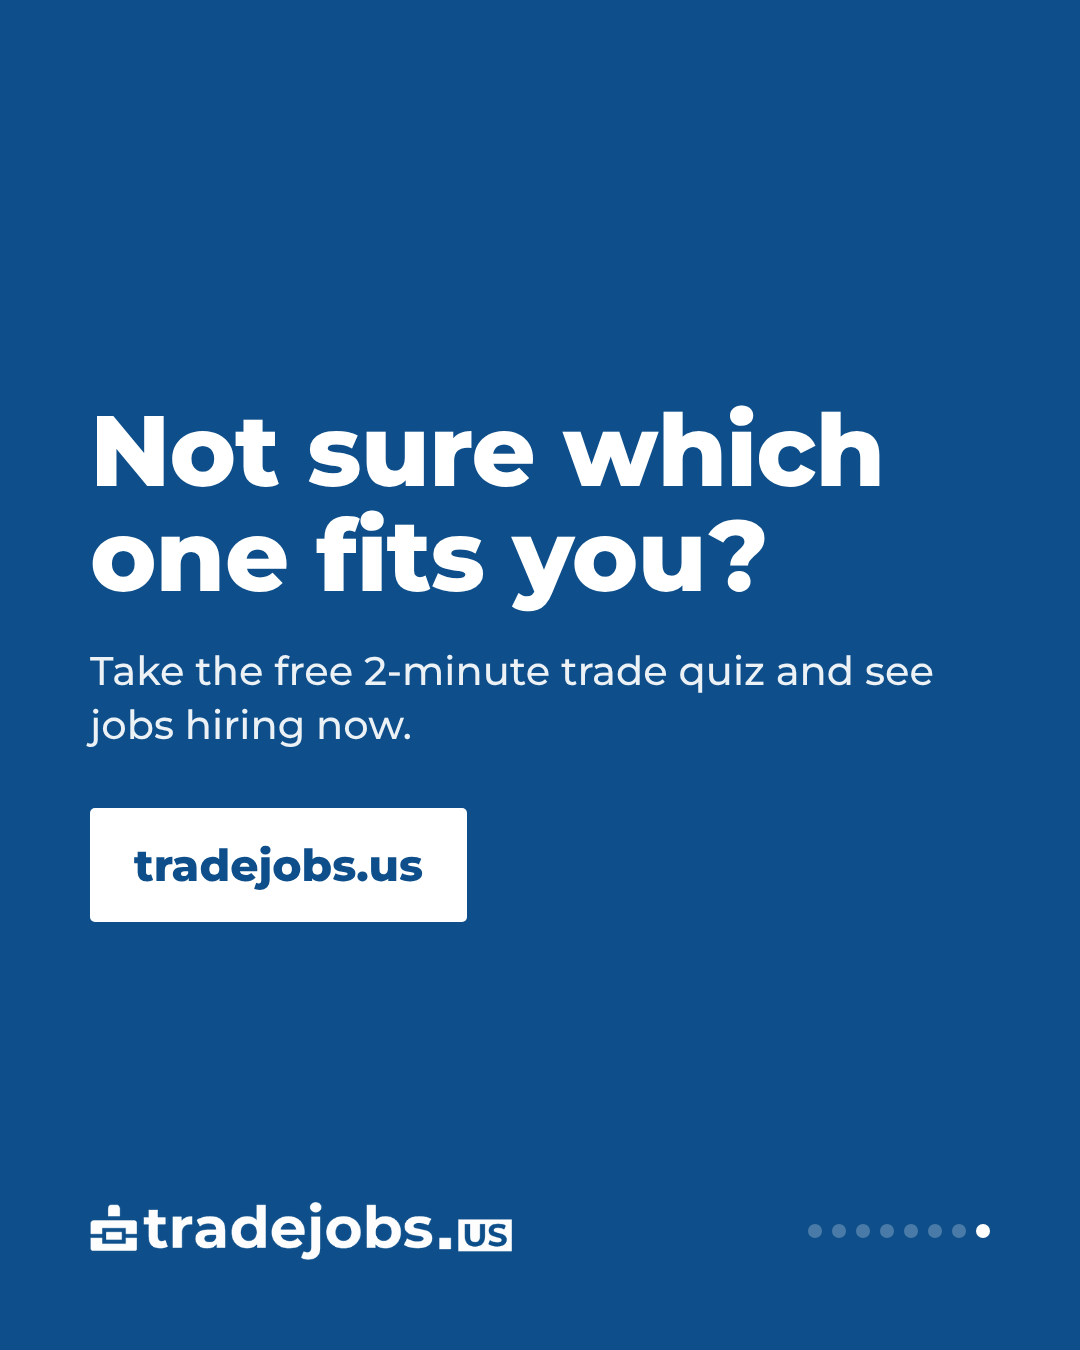
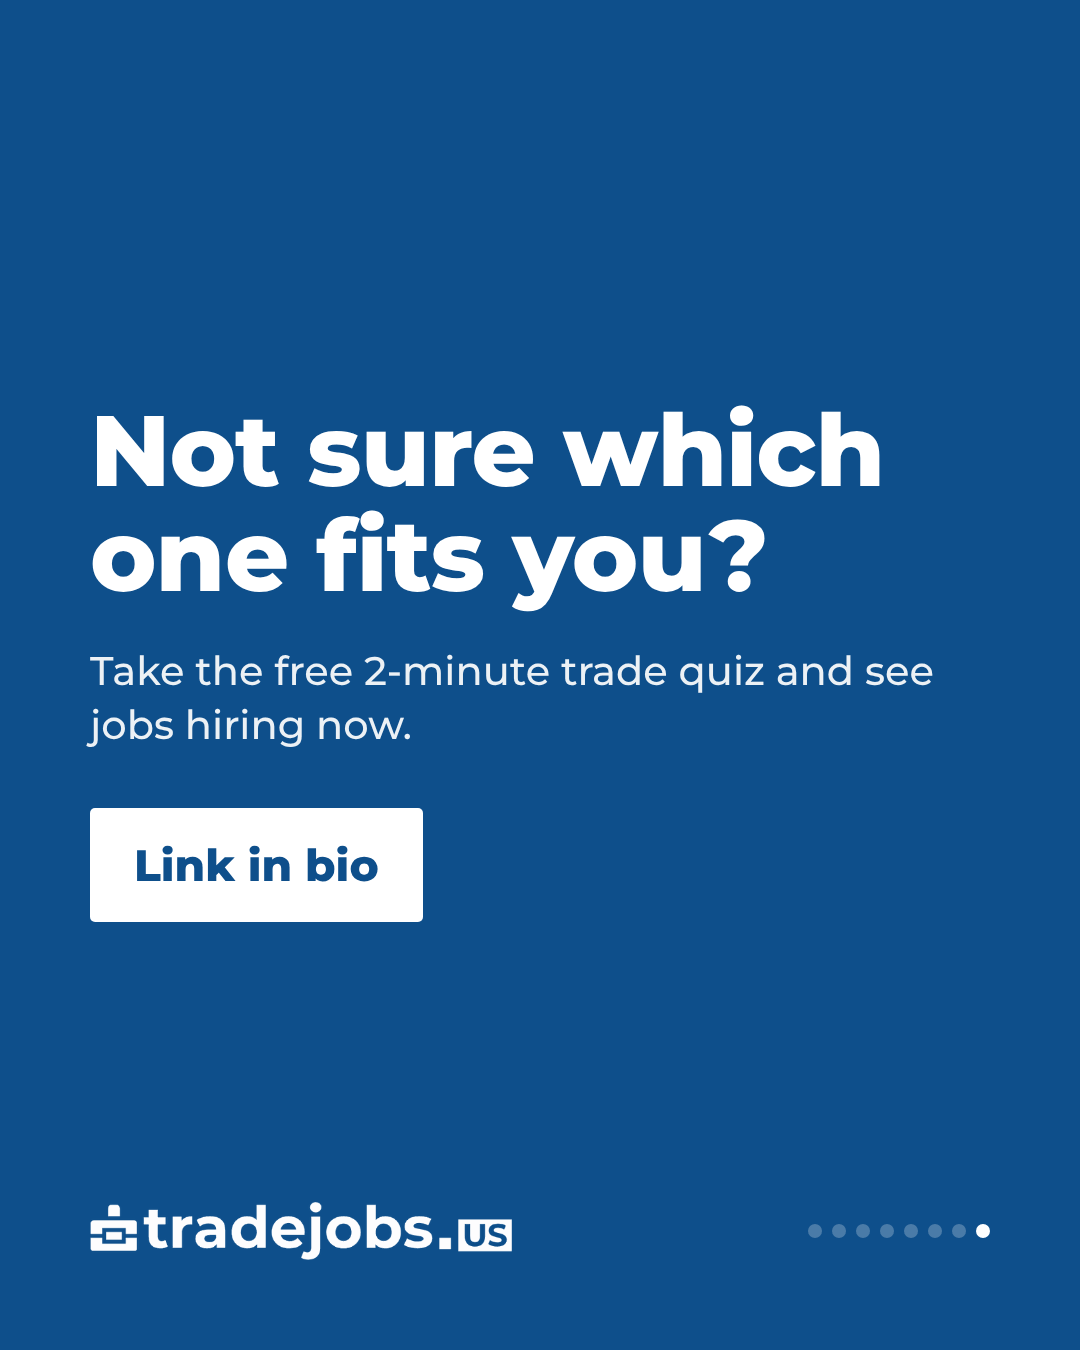
CTA button: Link in bio
Claude-Session: https://claude.ai/code/session_01UaT51KE7P8rZjTXgWD9LXK

Changed region(s): [[0.1222, 0.5911, 0.4583, 0.6844]]

diff --git a/template/make-carousel.js b/template/make-carousel.js
@@ -38,7 +38,7 @@ const css=`@font-face{font-family:M;font-weight:500;src:url(${F(500)})}@font-fac
 const dots=i=>'<span class="dots">'+Array.from({length:N},(_,k)=>`<i class="${k===i?'on':''}"></i>`).join('')+'</span>';
 function slide(s,i){
   if(s.type==='hook') return `<div class="s blue"><div class="main">${s.kicker?`<div class="kick">${esc(s.kicker)}</div>`:''}<div class="title">${esc(s.title)}</div>${s.sub?`<div class="sub">${esc(s.sub)}</div>`:''}</div><div class="foot"><img src="${LOGO_WHITE}" alt="">${dots(i)}</div></div>`;
-  if(s.type==='cta') return `<div class="s blue"><div class="main"><div class="title">${esc(s.title)}</div>${s.sub?`<div class="sub">${esc(s.sub)}</div>`:''}<div class="btn">${esc(s.url||'tradejobs.us')}</div></div><div class="foot"><img src="${LOGO_WHITE}" alt="">${dots(i)}</div></div>`;
+  if(s.type==='cta') return `<div class="s blue"><div class="main"><div class="title">${esc(s.title)}</div>${s.sub?`<div class="sub">${esc(s.sub)}</div>`:''}<div class="btn">${esc(s.url||'Link in bio')}</div></div><div class="foot"><img src="${LOGO_WHITE}" alt="">${dots(i)}</div></div>`;
   const st=(s.stats||[]).slice(0,2);
   return `<div class="s white"><div class="main">${s.n!=null?`<div class="num">${esc(s.n)}</div>`:''}<div class="name">${esc(s.name)}</div>${s.line?`<div class="line">${esc(s.line)}</div>`:''}${st.length?`<div class="stats" style="--c:${st.length}">${st.map(x=>`<div class="stat"><div class="sv">${esc(x.v)}</div><div class="sk">${esc(x.k)}</div></div>`).join('')}</div>`:''}${s.catch?`<div class="catch"><b>${esc(s.catchLabel||'The catch')}</b>${esc(s.catch)}</div>`:''}</div><div class="foot"><span style="display:flex;align-items:center"><img src="${LOGO_BLUE}" alt="">${spec.source?`<span class="src">Source: ${esc(spec.source)}</span>`:''}</span>${dots(i)}</div></div>`;
 }
